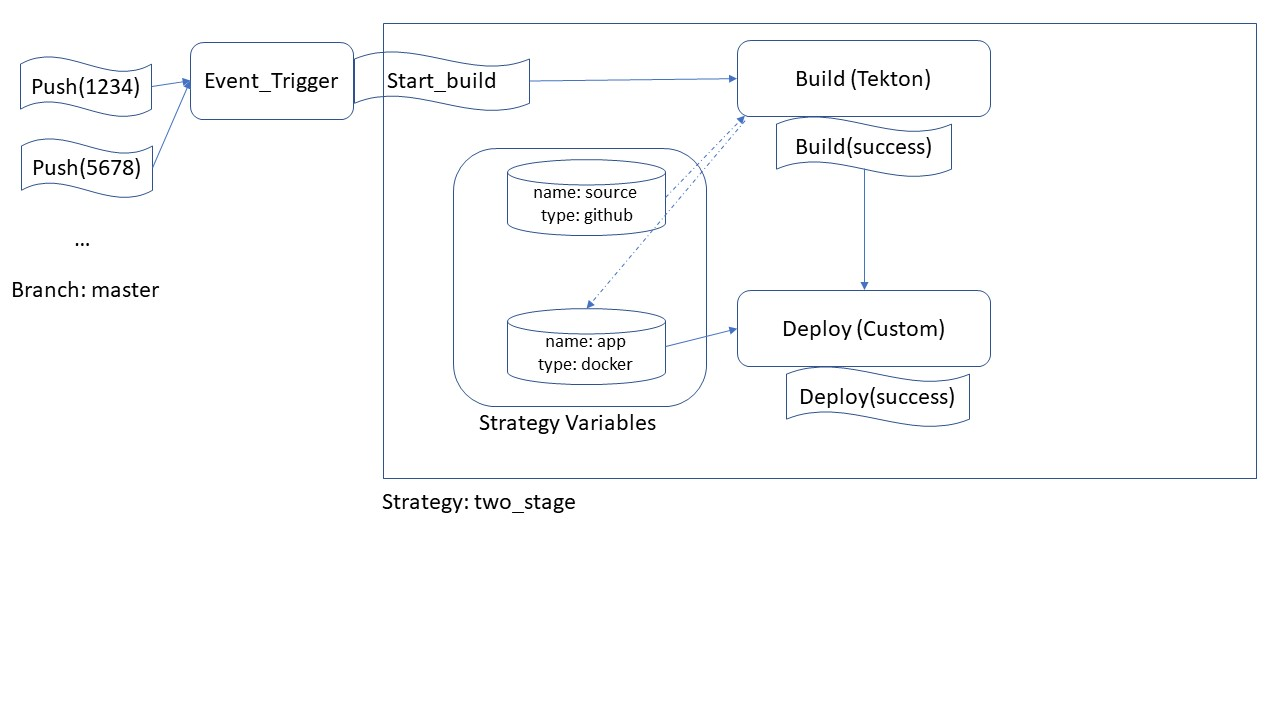
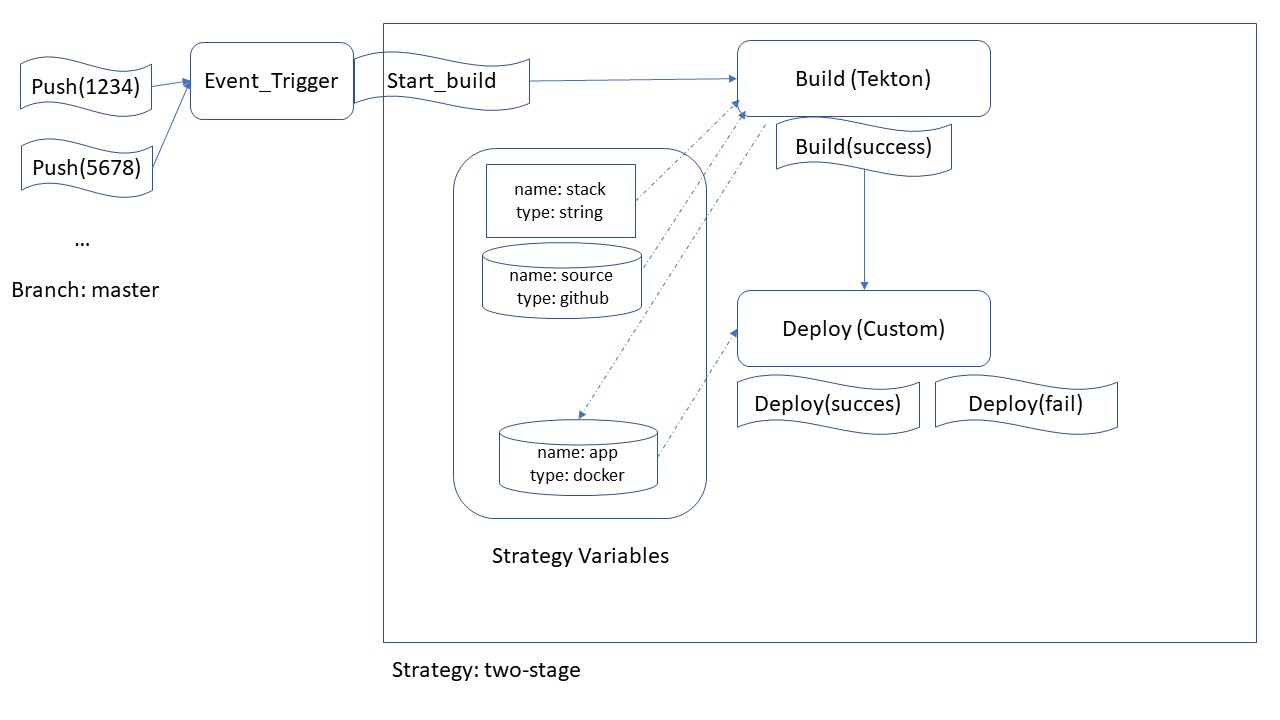
update README

diff --git a/architecture/README.md b/architecture/README.md
@@ -397,7 +397,7 @@ spec:
     - name: Build
       status: Success
   emits:
-    - name: Build
+    - name: Deploy
       status: ${kabanero.stage.status}
 ```
 
@@ -410,7 +410,7 @@ The StrategyDefinition CRD defines a strategy instance.  For our example, it inc
 apiVersion: kabanero.io/v1alpha1
 kind: StrategyDefinition
 metadata:
-  name: one_stage
+  name: two-stage
   namespace: kabanero
 spec:
   - strategy-variables:
